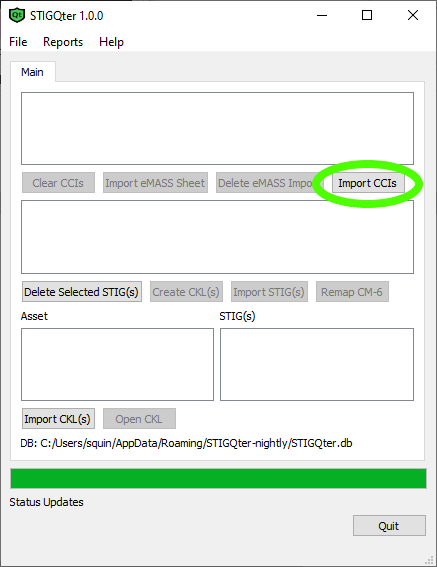
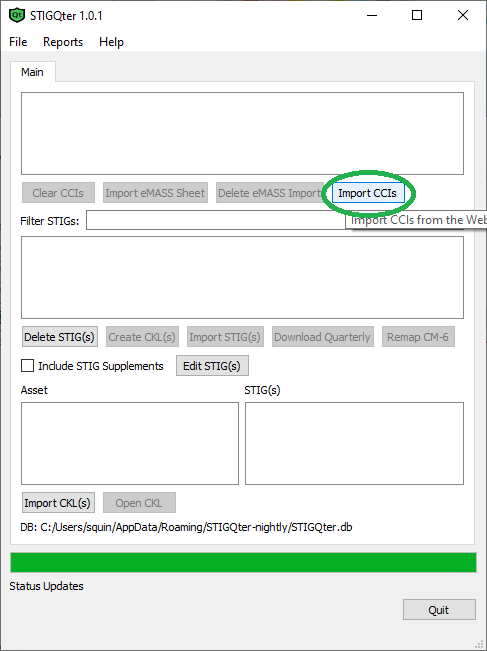
Update documentation and quarterly release package

diff --git a/doc/main.tex b/doc/main.tex
@@ -18,7 +18,7 @@
 \newcommand{\repdate}{\formatdate{28}{1}{2020}}
 \def \ProjectName{Security Technical Implementation Guide Qt Viewer}
 \def \ProjectAcronym{STIGQter}
-\def \ProjectVersion{1.0.0}
+\def \ProjectVersion{1.0.1}
 
 %-------------------------------------------------------------------------------
 %                Header & Footer Setup
@@ -148,6 +148,7 @@ This page intentionally left blank for 2-sided printing compatibility.
 \begin{Revision}
 \RevisionEntry{\date{\changelog\formatdate{29}{10}{2019}}}{Jon Hood}{Initial Release of Documentation}
 \RevisionEntry{\date{\changelog\formatdate{28}{1}{2020}}}{Jon Hood}{Prepare for 1.0 Release}
+\RevisionEntry{\date{\changelog\formatdate{4}{5}{2020}}}{Jon Hood}{Prepare for 1.0.1 Release}
 \end{Revision}
 \newpage
 
@@ -211,7 +212,7 @@ STIGQter will index the base CCIs associated with NIST 800-53 Revision 4 automat
 	\vspace{-40pt}
 	\label{fig:importstigs}
 \end{wrapfigure}
-DISA generally publishes Security Technical Implementation Guides and Security Requirements Guides (STIG/SRG) at \url{http://public.cyber.mil/stigs/}. The ``document library'' provides a list of STIGs available for download. These STIG .zip files may be downloaded and imported into the application (Figure~\ref{fig:importstigs}).
+DISA generally publishes Security Technical Implementation Guides and Security Requirements Guides (STIG/SRG) at \url{http://public.cyber.mil/stigs/}. The ``document library'' provides a list of STIGs available for download. These STIG .zip files may be downloaded and imported into the application (Figure~\ref{fig:importstigs}). Beginning with version 1.0.1, the quarterly release from DISA can be downloaded and imported.
 
 STIGs and SRGs provide a checklist of weaknesses and security problems in common environments. These checklists provide a bare minimum security posture for a system or component. Checklist items in each STIG and SRG are mapped to CCIs, and these CCIs map to controls in the NIST 800-53 Risk Management Framework (RMF) process.
 

diff --git a/src/dbmanager.h b/src/dbmanager.h
@@ -73,7 +73,7 @@ public:
     CCI GetCCI(const CCI &cci, const STIG *stig = nullptr);
     QVector<CCI> GetCCIs(QVector<int> ccis);
     QVector<CCI> GetCCIs(const Control &c);
-    QVector<CCI> GetCCIs(const int STIGCheckId);
+    QVector<CCI> GetCCIs(int STIGCheckId);
     CCI GetCCIByCCI(int cci, const STIG *stig = nullptr);
     QVector<CCI> GetCCIs(const QString &whereClause = QString(), const QVector<std::tuple<QString, QVariant>> &variables = {});
     CKLCheck GetCKLCheck(int id);
@@ -88,7 +88,7 @@ public:
     QString GetDBPath();
     Family GetFamily(const QString &acronym);
     Family GetFamily(int id);
-    QVector<QString> GetLegacyIds(const int STIGCheckId);
+    QVector<QString> GetLegacyIds(int STIGCheckId);
     int GetLogLevel();
     QVector<Family> GetFamilies(const QString &whereClause = QString(), const QVector<std::tuple<QString, QVariant>> &variables = {});
     STIG GetSTIG(int id);

diff --git a/src/dbmanager.cpp b/src/dbmanager.cpp
@@ -2778,7 +2778,7 @@ bool DbManager::UpdateDatabaseFromVersion(int version)
             q.bindValue(QStringLiteral(":value"), QStringLiteral("n"));
             ret = q.exec() && ret;
             q.bindValue(QStringLiteral(":name"), QStringLiteral("quarterly"));
-            q.bindValue(QStringLiteral(":value"), QStringLiteral("https://dl.dod.cyber.mil/wp-content/uploads/stigs/zip/U_SRG-STIG_Library_2020_01v4.zip"));
+            q.bindValue(QStringLiteral(":value"), QStringLiteral("https://dl.dod.cyber.mil/wp-content/uploads/stigs/zip/U_SRG-STIG_Library_2020_04v1.zip"));
             ret = q.exec() && ret;
             ret = UpdateVariable(QStringLiteral("version"), QStringLiteral("2")) && ret;
         }
